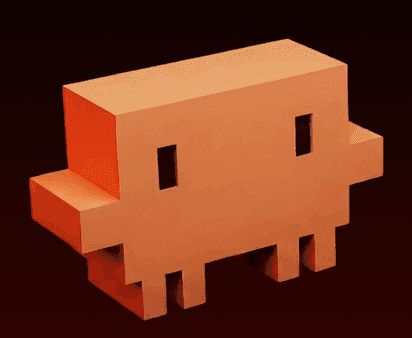
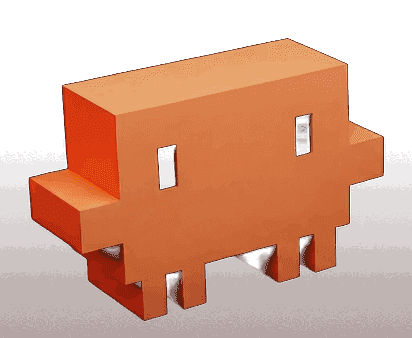
Use local claudecode.png file and make it transparent

diff --git a/src/app/skills/page.tsx b/src/app/skills/page.tsx
@@ -70,7 +70,7 @@ const skillCategories: { title: string; catImage: string; catDesc: string; items
     catDesc: "Tools I use to build autonomous AI agents and workflows.",
     items: [
       { label: "n8n", icon: "https://cdn.simpleicons.org/n8n", image: CAT_IMAGES.agentic, desc: "Designing complex AI-driven workflow automations." },
-      { label: "Claude Code", icon: "https://cdn.simpleicons.org/anthropic/white", iconClass: "scale-[0.85]", image: CAT_IMAGES.agentic, desc: "Autonomous development using advanced AI coding agents." },
+      { label: "Claude Code", icon: "/images/skills-icons/claudecode.png", image: CAT_IMAGES.agentic, desc: "Autonomous development using advanced AI coding agents." },
       { label: "OpenClaw", lucide: BotMessageSquare, image: CAT_IMAGES.agentic, desc: "Orchestrating multi-agent pipelines at scale." },
       { label: "MCP", lucide: Workflow, image: CAT_IMAGES.agentic, desc: "Model Context Protocol for structured agent communication." },
       { label: "Google Antigravity", icon: "/images/skills-icons/google-antigravity-orig.png", iconInvert: true, image: CAT_IMAGES.agentic, desc: "AI coordination using Google's Antigravity platform." },
